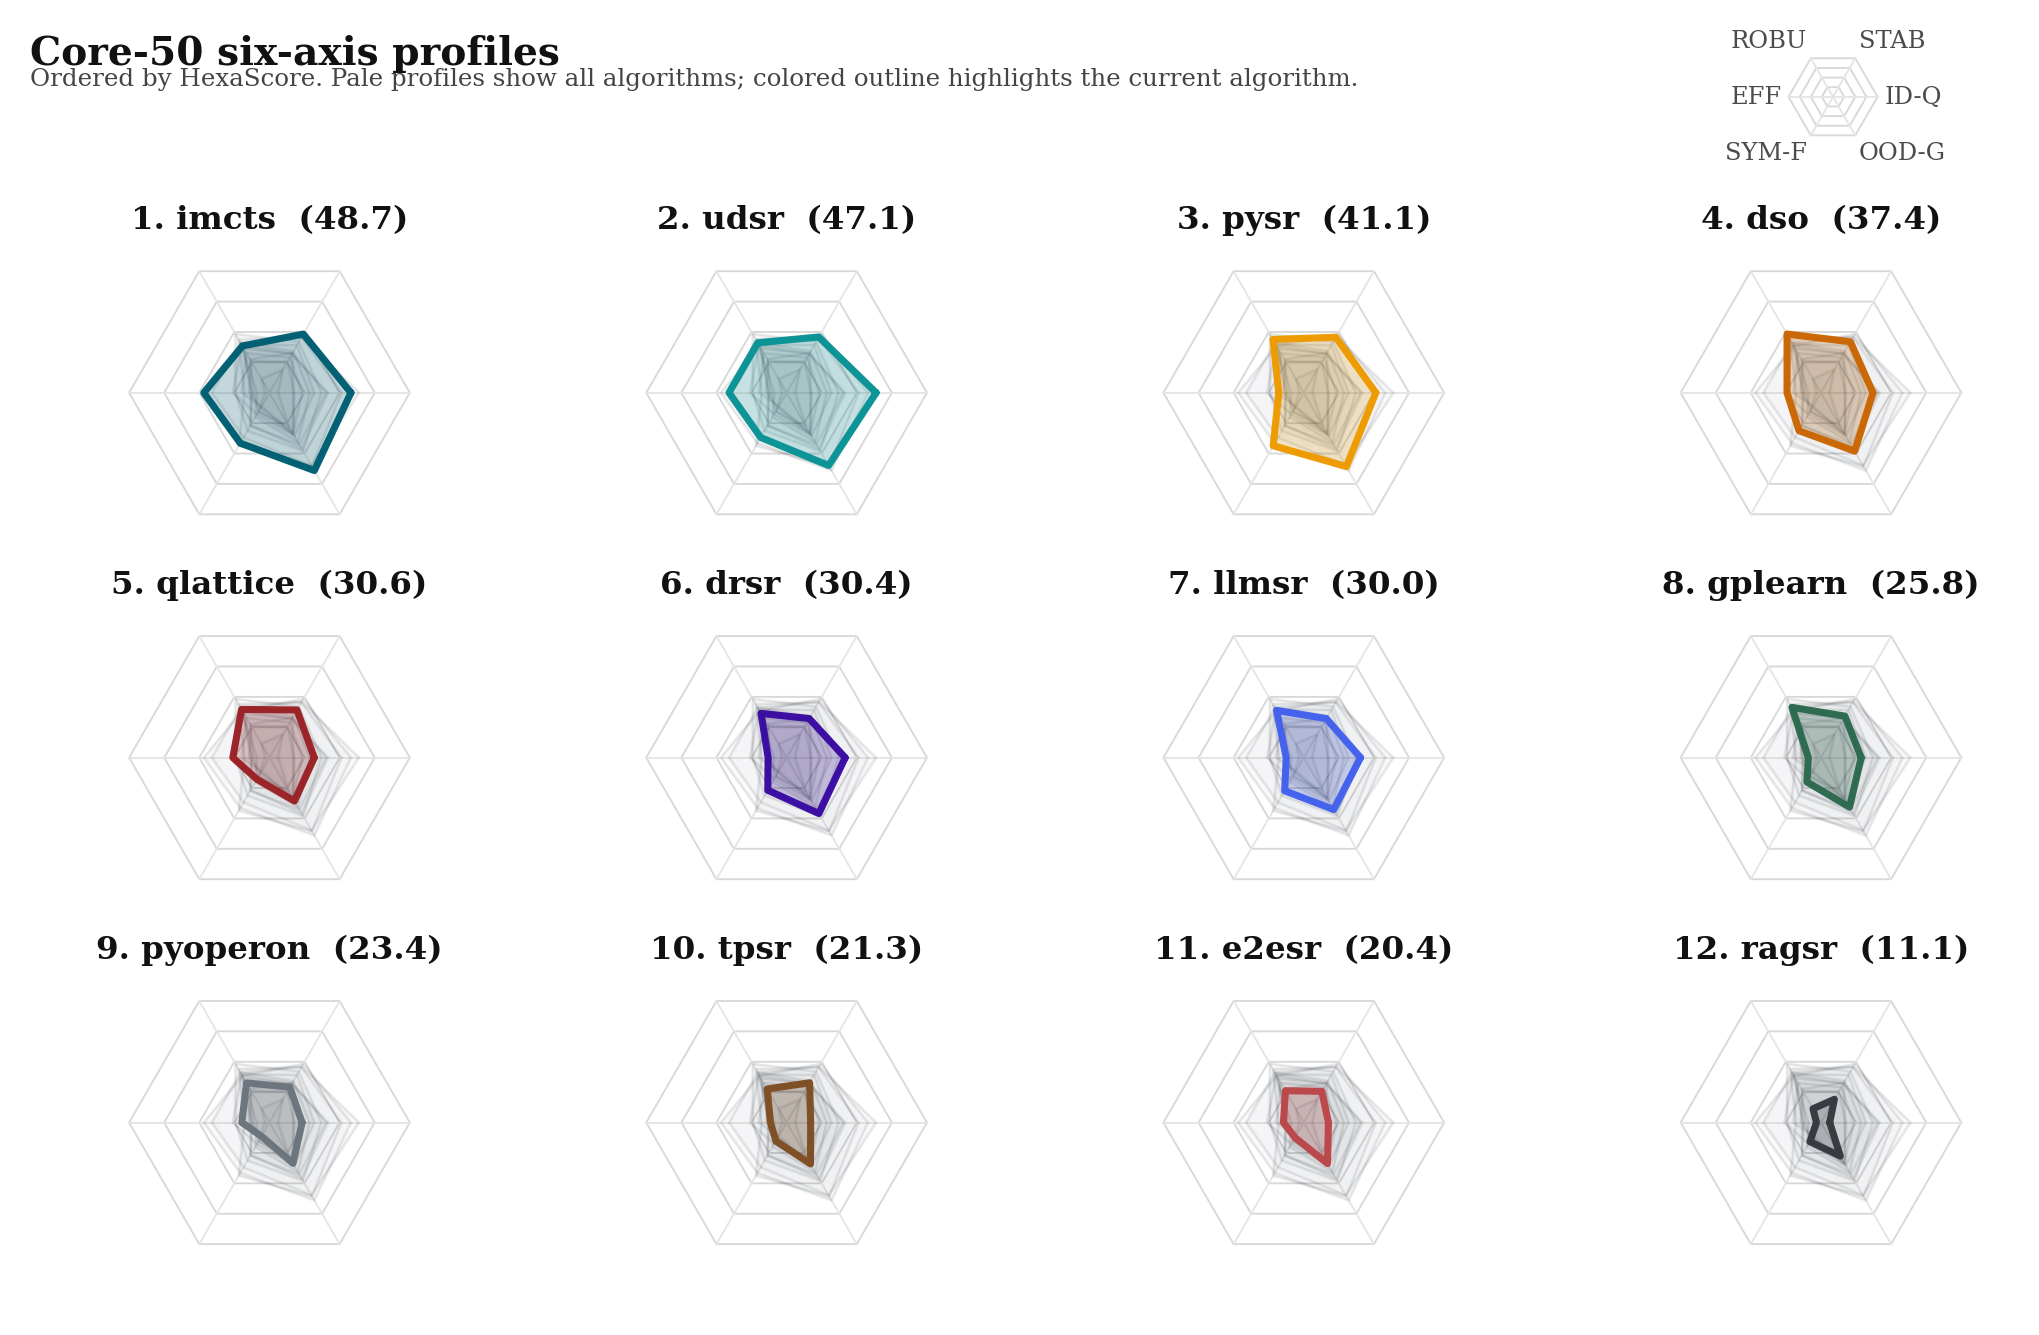
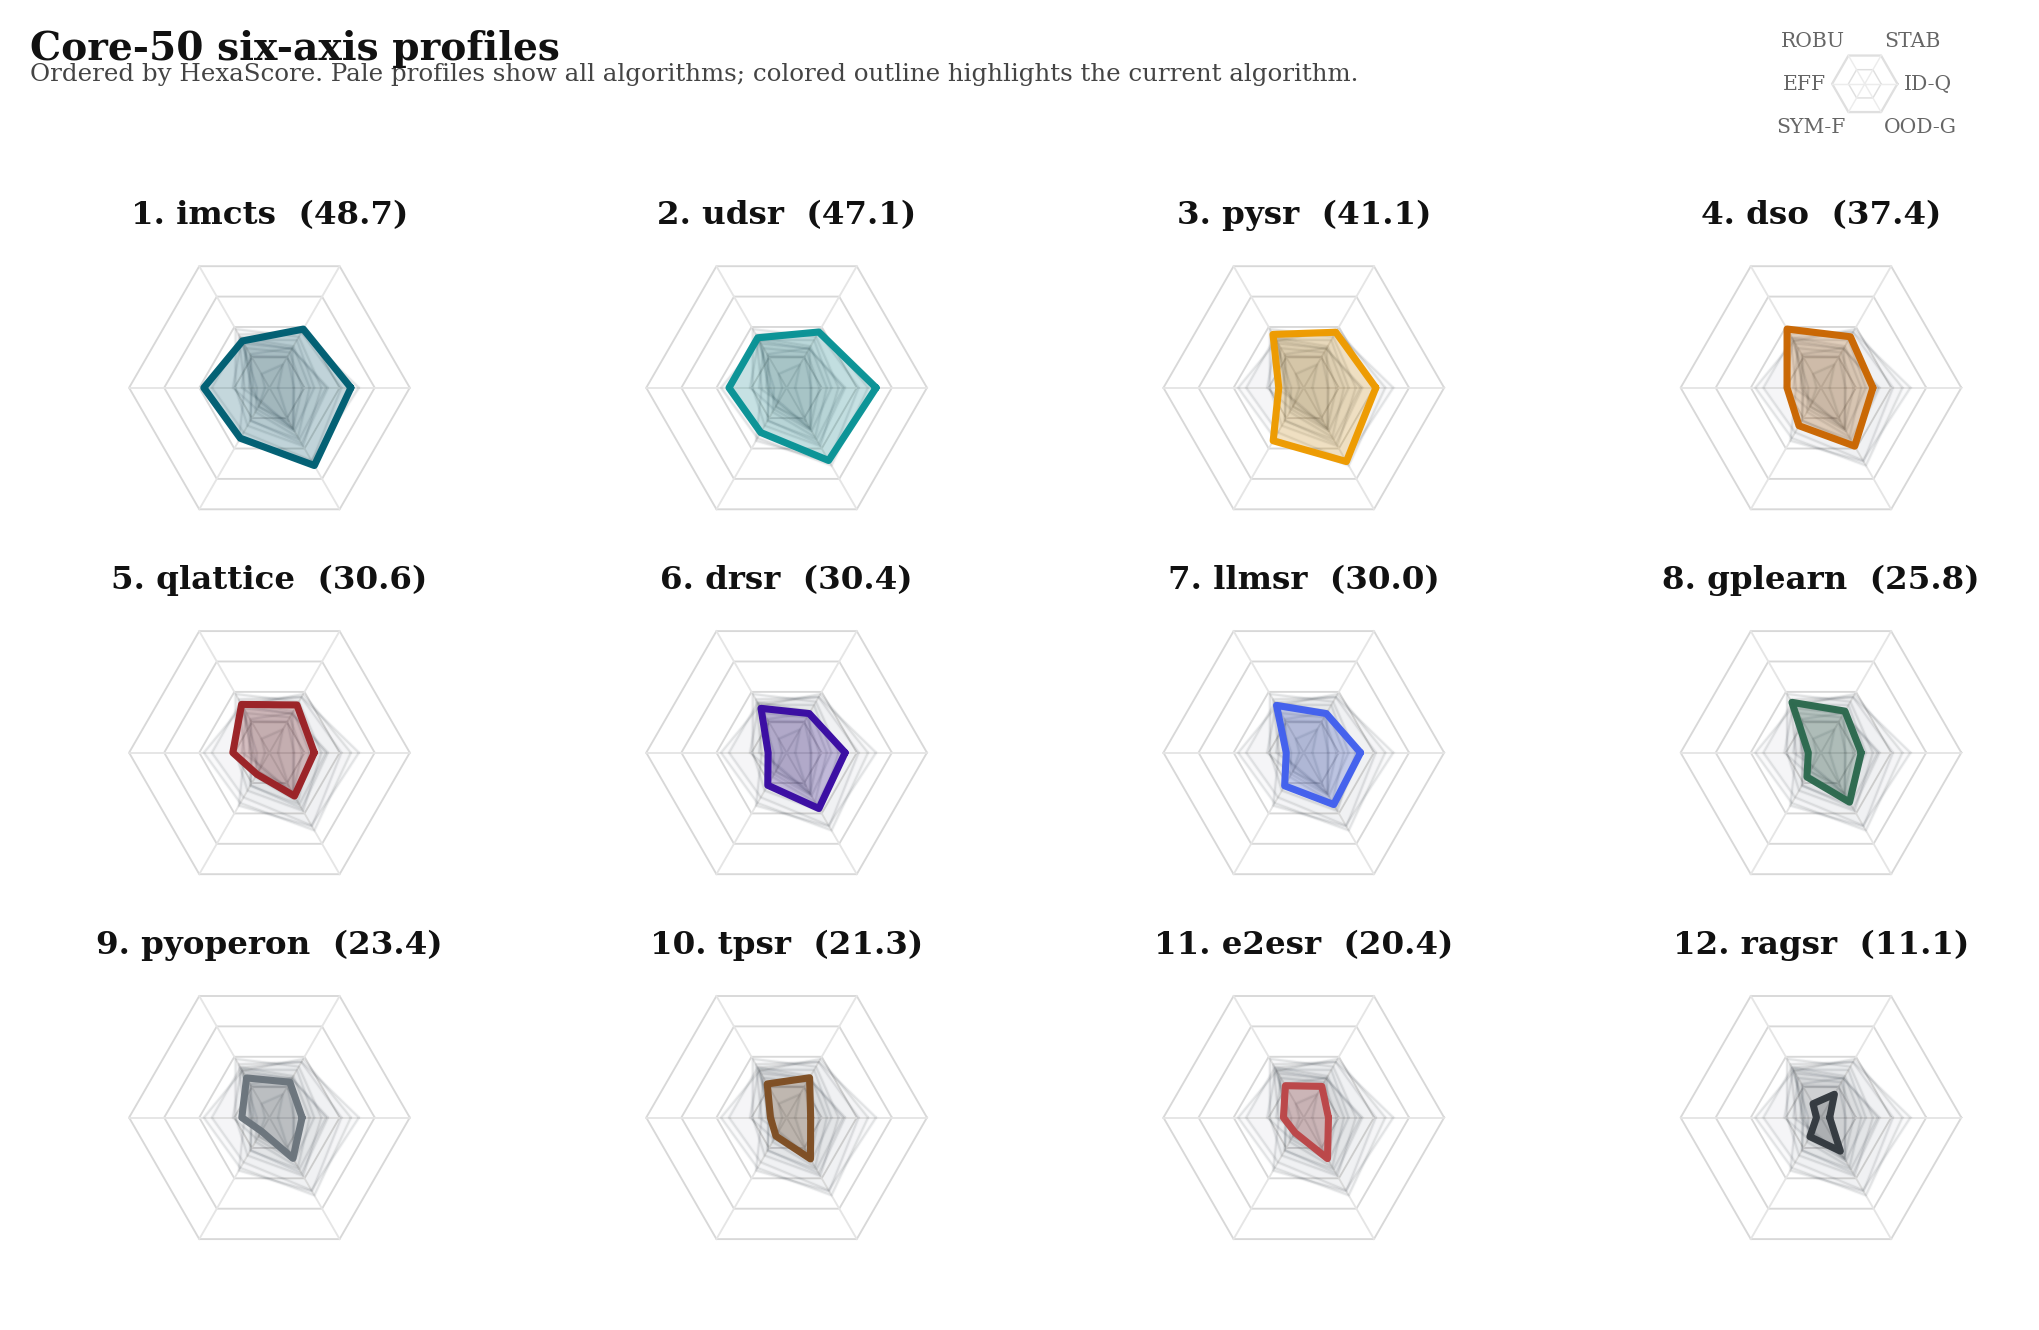
[update] 优化六轴图指示图样式

diff --git a/check/plot_hexagon_small_multiples_neurips.py b/check/plot_hexagon_small_multiples_neurips.py
@@ -103,8 +103,30 @@ def draw_grid(ax: plt.Axes, angles: np.ndarray, *, show_axis_labels: bool = Fals
 
 def draw_axis_key(fig: plt.Figure, angles: np.ndarray) -> None:
     """在整张图顶部只画一次六轴方向说明，避免每个 panel 重复 6 个标签。"""
-    key_ax = fig.add_axes([0.815, 0.890, 0.125, 0.090])
-    draw_grid(key_ax, angles, show_axis_labels=True)
+    key_ax = fig.add_axes([0.845, 0.908, 0.095, 0.066])
+    key_grid_color = "#dfdfdf"
+    key_spoke_color = "#ececec"
+    for r, lw in [(0.50, 0.35), (1.00, 0.55)]:
+        x = r * np.cos(angles)
+        y = r * np.sin(angles)
+        key_ax.plot(np.r_[x, x[0]], np.r_[y, y[0]], color=key_grid_color, lw=lw, zorder=0)
+    for angle in angles:
+        key_ax.plot([0, math.cos(angle)], [0, math.sin(angle)], color=key_spoke_color, lw=0.35, zorder=0)
+
+    for label, angle in zip(AXIS_LABELS, angles):
+        x = 1.19 * math.cos(angle)
+        y = 1.19 * math.sin(angle)
+        ha = "center"
+        if x < -0.2:
+            ha = "right"
+        elif x > 0.2:
+            ha = "left"
+        va = "center"
+        if y > 0.7:
+            va = "bottom"
+        elif y < -0.7:
+            va = "top"
+        key_ax.text(x, y, label, ha=ha, va=va, fontsize=4.9, color="#666666")
     key_ax.set_aspect("equal")
     key_ax.set_xlim(-1.45, 1.45)
     key_ax.set_ylim(-1.35, 1.35)
